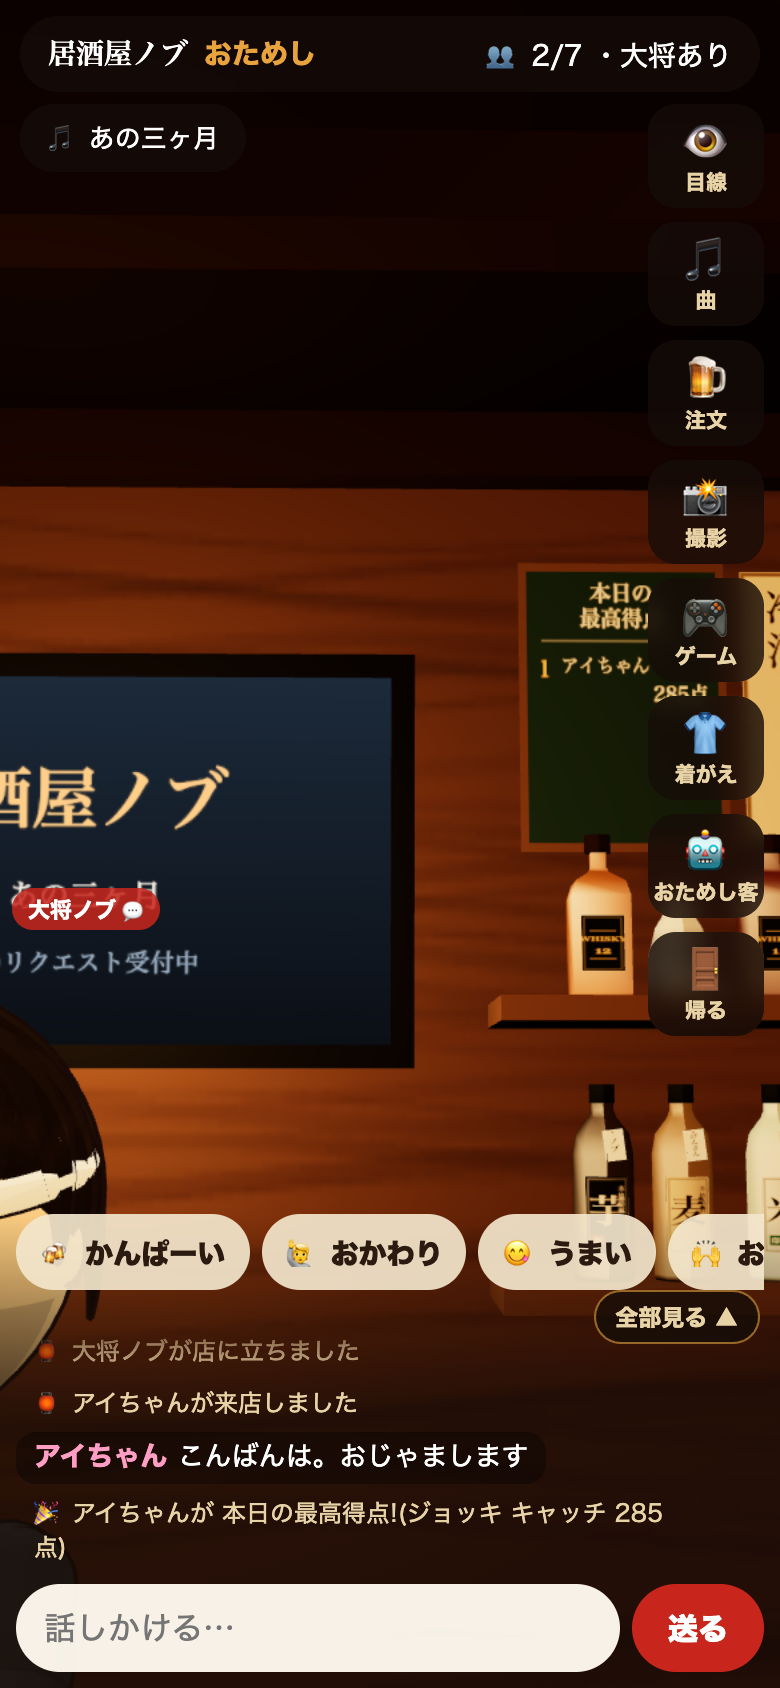
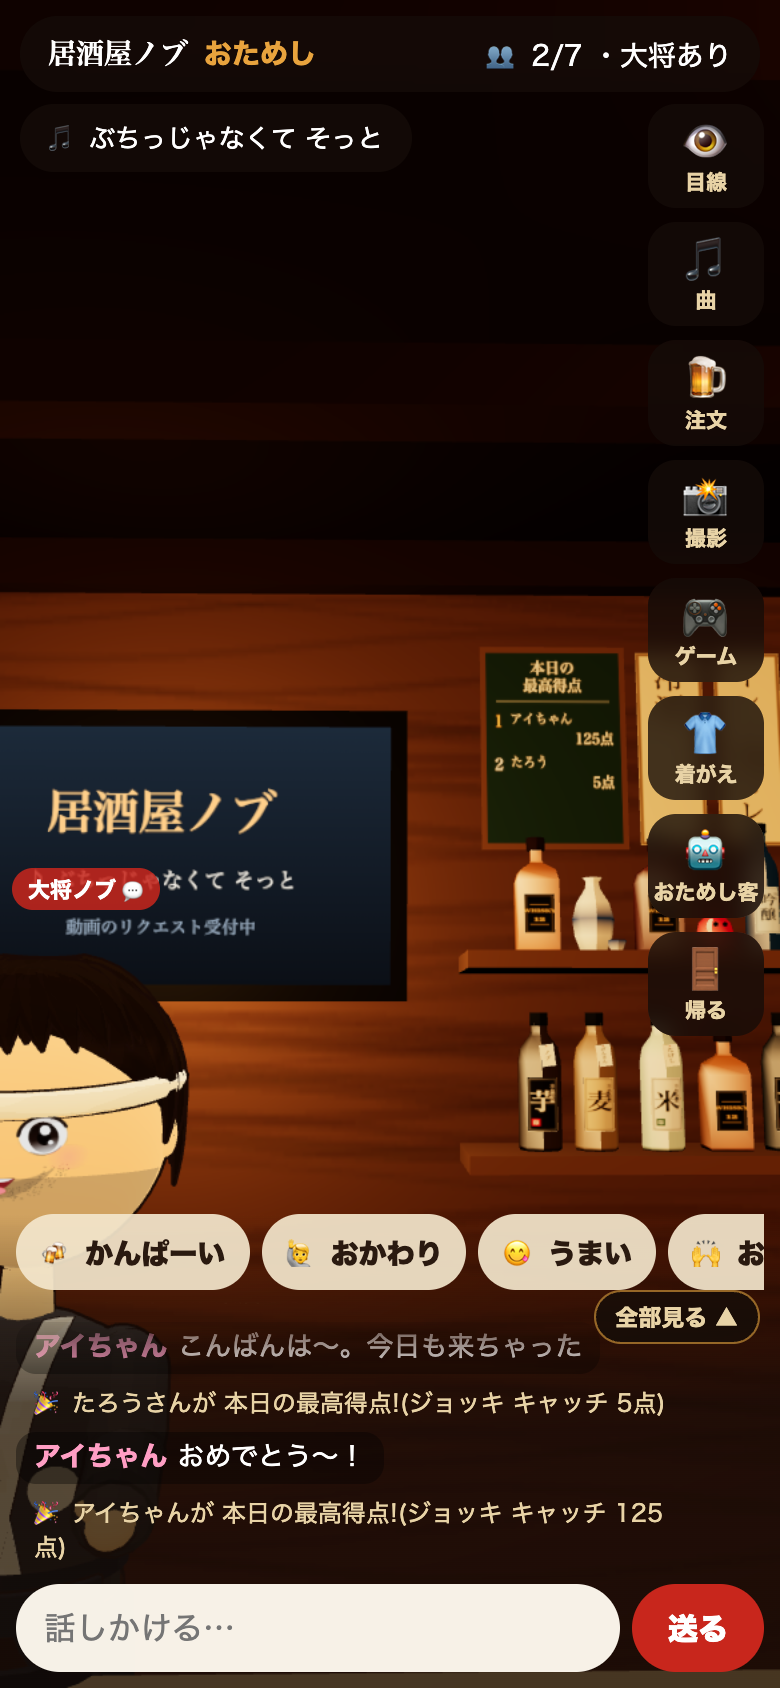
大将ノブ専用の顔・髪型の部品(選ぶ前の候補。まだ店では使わない)

diff --git a/js/scene3d.js b/js/scene3d.js
@@ -243,7 +243,7 @@ function lighten(hex, f) { const c = new THREE.Color(hex); c.lerp(new THREE.Colo
 /* ---------- 顔(キャンバス 512×512 に描く) ---------- */
 const FACE_CACHE = {};
 function faceTexture(a) {
-  const key = JSON.stringify([a.sex, a.eyes, a.eyeColor, a.brows, a.mouth, a.beard, a.lip, a.cheek, a.hairColor, a.skin]);
+  const key = JSON.stringify([a.sex, a.eyes, a.eyeColor, a.brows, a.mouth, a.beard, a.lip, a.cheek, a.hairColor, a.skin, a.nBeard || '']);
   if (FACE_CACHE[key]) return FACE_CACHE[key];
   const t = canvasTex(512, 512, (g) => {
     const F = a.sex === 'f';
@@ -266,17 +266,22 @@ function faceTexture(a) {
       g.fillStyle = 'rgba(60,45,40,0.22)'; g.beginPath(); g.moveTo(150, 340); g.quadraticCurveTo(256, 470, 362, 340); g.quadraticCurveTo(256, 400, 150, 340); g.fill();
       g.fillStyle = 'rgba(40,30,28,0.35)'; for (let k = 0; k < 260; k++) { const tt = Math.random() * Math.PI, r = 70 + Math.random() * 40; g.fillRect(256 + Math.cos(tt) * r * 1.2, 330 + Math.sin(tt) * r * 0.75, 2, 2); }
     }
+    if (a.nBeard === 'b2' || a.nBeard === 'b3') { g.fillStyle = bc; g.beginPath(); g.ellipse(256, 404, 13, 9, 0, 0, Math.PI * 2); g.fill(); }   // 大将ノブ: 下くちびるの下の ちょびひげ
+    if (a.nBeard === 'b3') { g.fillStyle = 'rgba(28,23,20,0.75)'; g.beginPath(); g.moveTo(214, 352); g.quadraticCurveTo(256, 336, 298, 352); g.quadraticCurveTo(256, 346, 214, 352); g.fill(); }   // 大将ノブ: うすい口ひげ
     if (a.beard === 'mustache' || a.beard === 'full') { g.fillStyle = bc; g.beginPath(); g.moveTo(206, 356); g.quadraticCurveTo(232, 336, 256, 348); g.quadraticCurveTo(280, 336, 306, 356); g.quadraticCurveTo(256, 352, 206, 356); g.fill(); }
     // まゆ
     const browC = shade(hairC === '#e8e2d8' ? '#9a8a7a' : hairC, 0.85);
     g.strokeStyle = browC; g.fillStyle = browC;
-    const bw = { thick: 11, natural: 7, straight: 8, up: 8, worry: 7, soft: 6, thin: 4 }[a.brows] || 7;
+    const bw = { thick: 11, natural: 7, straight: 8, up: 8, worry: 7, soft: 6, thin: 4, nk1: 11, nk2: 9, nk3: 12 }[a.brows] || 7;
     g.lineWidth = bw;
     [[LX, -1], [RX, 1]].forEach(([x, s]) => {
       const by = EY - (F ? 92 : 80);
       g.beginPath();
       switch (a.brows) {
         case 'up': g.moveTo(x - 30 * s, by + 8); g.quadraticCurveTo(x, by - 8, x + 32 * s, by - 10); break;
+        case 'nk1': g.moveTo(x - 34 * s, by + 10); g.lineTo(x + 8 * s, by - 6); g.quadraticCurveTo(x + 24 * s, by - 10, x + 36 * s, by - 2); break;   // 大将ノブ: きりっ(山のある まゆ)
+        case 'nk2': g.moveTo(x - 32 * s, by + 8); g.lineTo(x + 34 * s, by - 8); break;   // 大将ノブ: きりっ(まっすぐ上がる)
+        case 'nk3': g.moveTo(x - 34 * s, by + 6); g.quadraticCurveTo(x - 4 * s, by - 8, x + 36 * s, by - 6); break;   // 大将ノブ: きりっ(太く ゆるい弧)
         case 'worry': g.moveTo(x - 30 * s, by - 4); g.quadraticCurveTo(x, by - 4, x + 30 * s, by + 10); break;
         case 'straight': g.moveTo(x - 30 * s, by); g.lineTo(x + 30 * s, by - 2); break;
         case 'soft': g.moveTo(x - 28 * s, by + 4); g.quadraticCurveTo(x, by - 10, x + 28 * s, by + 2); break;
@@ -323,6 +328,9 @@ function drawEye(g, cx, cy, s, a, eyeC, ink) {
     case 'smile': closed = true; break;
     case 'wink': if (s === 1) closed = true; break;
     case 'ai': h *= 1.16; w *= 1.08; tilt = 0.08; break;   // アイちゃん: 大きく まるい目(少したれ目)
+    case 'ne1': w *= 1.12; h *= 1.12; tilt = 0.1; break;   // 大将ノブ: やさしい大きめの目(少したれ目)
+    case 'ne2': w *= 1.18; h *= 1.0; tilt = 0.14; break;   // 大将ノブ: やさしい横長の大きめの目
+    case 'ne3': w *= 1.08; h *= 1.2; tilt = 0.06; break;   // 大将ノブ: くりっと大きい目
   }
   g.save(); g.translate(cx, cy); g.rotate(tilt * s);
   if (closed) {   // にこにこ・ウインクは 弧を描く
@@ -646,12 +654,25 @@ function buildHair(head, a, R, D) {
         fBacks(-0.5, 9, -0.1, 0.05, 0, 2.2); break;
       case 'long':     shell({ f: 0.85, s: 1.75, b: 2.05, vol: 0.06, part: 0 }); pull(1.35, Math.PI, 16); frame(-0.8, 0.03, -0.1); roundTail(0, -R * 0.32, -R * 1.0, L(1.3), 0, 9, 0.028, 0, 0.1); break;
       case 'buzz':     { const m = add(hairShell(D, R, { f: 0.98, s: 1.6, b: 1.95, vol: 0.012, crown: 0 }), mixC(hc, skinC, 0.15), 0.003); m.scale.setScalar(1.0); } head.userData.hairR = R * 1.07; return;   // ぼうず: 地肌に近い色の短い毛
+      case 'nobu': {   // 大将ノブ専用(2026-11-21): 前髪を上げて おでこを見せる(ツンツンでも オールバックでもない)。横は短め、えり足なし。黒
+        const v = a.nHair || 'n1';
+        const sd = add(hairShell(D, R, { f: 0.95, s: 1.66, b: 1.9, vol: 0.016, crown: 0 }), mixC(hc, skinC, 0.03), 0.003); sd.scale.setScalar(1.0);   // 横と後ろ: 短く そろえた毛
+        const P = { n1: { f: 0.74, vol: 0.1, rise: 0.2, len: 0.6, sw: 0.08, n: 10, w: 0.072 }, n2: { f: 0.74, vol: 0.09, rise: 0.17, len: 0.66, sw: 0.5, n: 10, w: 0.07 },
+          n3: { f: 0.77, vol: 0.12, rise: 0.3, len: 0.42, sw: 0.12, n: 12, w: 0.06 }, n4: { f: 0.72, vol: 0.08, rise: 0.12, len: 0.82, sw: 0.0, n: 11, w: 0.074 },
+          n5: { f: 0.74, vol: 0.1, rise: 0.22, len: 0.58, sw: -0.45, n: 10, w: 0.07 } }[v] || {};
+        shell({ f: P.f, s: 1.45, b: 1.72, vol: P.vol });   // 上: ふんわり(横・後ろとの段差は小さく)
+        crown(15, 0.8);
+        if (!HAT) {
+          row(P.n, -1.0, 1.0, (ph, t, k) => st({ th: P.f + 0.03, ph, len: R * (P.len + jit(k, 0.06)), up: true, rise: P.rise + jit(k + 2, 0.05), sweep: P.sw + (t - 0.5) * 0.3 }, P.w, 0.3, 0.3));   // 前髪: 根もとから 立ち上げて 後ろへ流す(てっぺんで まとまらない長さ)
+          row(P.n - 3, -0.75, 0.75, (ph, t, k) => st({ th: P.f + 0.2, ph: ph + 0.06, len: R * (P.len * 0.75 + jit(k + 4, 0.05)), up: true, rise: P.rise * 0.6, sweep: P.sw * 0.8 }, P.w * 0.95, 0.3, 0.3));   // 2段目(厚み)
+        }
+        VOL = P.vol; break; }
       default: shell({}); crown();
     }
   }
   head.userData.hairR = R * (1.045 + VOL + 0.04);   // 髪のいちばん外がわ(帽子・カチューシャの大きさの目安)
   if (a.hair !== 'buzz' && !HAT) { const cp = new THREE.Mesh(hairTint(new THREE.SphereGeometry(R * (1.045 + VOL + 0.032), 28, 6, 0, Math.PI * 2, 0, 0.4), R), toon(hc, { vertexColors: true })); cp.rotation.x = -0.12; head.add(cp); }   // つむじ
-  if (!(a.sex === 'm' && (a.hair === 'back' || a.hair === 'buzz'))) bangs();
+  if (!(a.sex === 'm' && (a.hair === 'back' || a.hair === 'buzz' || a.hair === 'nobu'))) bangs();
   if (a.ahoge === 'on' && !HAT) ahoge();
 }
 
@@ -949,6 +970,11 @@ function buildAvatar(raw, opt = {}) {
     if (AI_OPEN.includes(a.top) && !a.aiNeck) a.aiNeck = 'pearl1';   // 胸元が開いた服は 必ずネックレス
     if (typeof raw.aiRibbon === 'string' && raw.aiRibbon) a.aiRibbon = raw.aiRibbon;   // 髪のリボン(形)
   }
+  if (raw && raw.special === 'nobu' && a.owner && a.sex === 'm') {   // 大将ノブ専用の顔・髪型(ノブさん 2026-11-21)。お客さんは選べない。服・頭の手ぬぐい等は これまでどおり選べる。小物は付けない
+    const N = Object.assign({ hair: 'n1', brow: 'k1', eye: 'e1', nose: 1, beard: 'b1', face: 'egg', skin: 2 }, (window.SHOP && SHOP.NOBU_FACE) || {}, raw.nobuFace || {});
+    a.special = 'nobu'; a.hair = 'nobu'; a.nHair = N.hair; a.hairColor = 0; a.brows = 'n' + N.brow; a.eyes = 'n' + N.eye; a.beard = 'chin'; a.nBeard = N.beard; a.nNose = N.nose;
+    if (['round', 'egg', 'sharp', 'square'].includes(N.face)) a.face = N.face; if (N.skin >= 0 && N.skin <= 5) a.skin = N.skin; a.acc = 'none';
+  }
   const cos = raw && raw.costume; costumePrep(a, cos);   // お祝いモードの かぶりもの
   const f = a.sex === 'f';
   const skinC = AVATAR.color(AVATAR.SKIN, a.skin); SKIN_SET.add(String(skinC).toLowerCase());
@@ -1034,9 +1060,13 @@ function buildAvatar(raw, opt = {}) {
   const faceGeo = deformGeo(new THREE.SphereGeometry(R * 1.004, 36, 28, Math.PI / 2 - 0.95, 1.9, Math.PI / 2 - 0.8, 1.6), D, R);
   const face = new THREE.Mesh(faceGeo, new THREE.MeshBasicMaterial({ map: faceTexture(a), transparent: true, depthWrite: false }));
   skull.add(face);
+  if (a.special === 'nobu') {   // 大将ノブ: 高い鼻(顔から少し出た形)
+    const big = a.nNose === 2 ? 1.18 : 1, np = sp(D, R, 1.68, 0, R * 0.99), nose = tm(new THREE.SphereGeometry(R * 0.075 * big, 14, 10), shade(skinC, 0.97), np.x, np.y, np.z, LN * 0.6);
+    nose.scale.set(0.6, 1.3, 1.25); nose.rotation.x = -0.3; skull.add(nose);
+  }
   if (!f && a.beard && a.beard !== 'none' && a.beard !== 'mustache') {   // ひげ: あごの形に そった殻(あごひげ=あごの先、フル=もみあげから あご全体、ぶしょう=うすく)
     const hcB = shade(AVATAR.color(AVATAR.HAIR_COLOR, a.hairColor), 0.92);
-    const kind = a.beard, ph = kind === 'chin' ? 0.62 : 1.45, th0 = kind === 'chin' ? 2.25 : kind === 'full' ? 1.95 : 1.9;
+    const kind = a.beard, ph = kind === 'chin' ? (a.nBeard === 'b4' ? 0.95 : 0.62) : 1.45, th0 = kind === 'chin' ? (a.nBeard === 'b4' ? 2.18 : 2.25) : kind === 'full' ? 1.95 : 1.9;   // b4: 大将ノブの 広めの あごひげ
     const bg = new THREE.SphereGeometry(R * (kind === 'stubble' ? 1.006 : 1.03), 28, 14, Math.PI / 2 - ph, ph * 2, th0, Math.PI - 0.1 - th0), bp = bg.attributes.position;
     for (let i = 0; i < bp.count; i++) {   // 上のふちを ぎざぎざに、あご先は 少し ふくらませる
       const x = bp.getX(i), y = bp.getY(i), z = bp.getZ(i), th = Math.acos(Math.max(-1, Math.min(1, y / (R * 1.03))));

diff --git a/tools/avatar-gallery.html b/tools/avatar-gallery.html
@@ -28,7 +28,8 @@ if (mode === 'ohats') {
   [['m', ['spiky', 'perm', 'back']], ['f', ['bun', 'wave', 'twin']]].forEach(([sx, hs]) => hs.forEach((h) => (Q.get('heads') ? Q.get('heads').split(',') : ['tenugui', 'itamae', 'bandana', sx === 'f' ? 'sankaku' : 'hachimaki']).forEach((hd) => { const a = JSON.parse(JSON.stringify(AVATAR.OWNER)); a.sex = sx; a.hair = h; a.head = hd; list.push([a, h + '/' + hd]); })));
 }
 if (mode.startsWith('bangs-')) vary(mode.slice(6), 'bangs', 0);
-if (mode === 'ai') (window.__AI || []).forEach((x) => list.push(x));   // アイちゃんの服・小物の確認(試しの台本から渡す)
+if (mode === 'ai') (window.__AI || []).forEach((x) => list.push(x));
+if (mode === 'nobu') (window.__NOBU || []).forEach(([nf, nm, top]) => { const a = JSON.parse(JSON.stringify(AVATAR.OWNER)); a.special = 'nobu'; a.nobuFace = nf; if (top) Object.assign(a, top); list.push([a, nm]); });   // 大将ノブの顔・髪型の候補   // アイちゃんの服・小物の確認(試しの台本から渡す)
 if (mode === 'owner') AVATAR.OWNER_PARTS.top.forEach(([id, nm], i) => { const a = JSON.parse(JSON.stringify(AVATAR.OWNER)); a.top = id; a.head = AVATAR.OWNER_PARTS.head[i + 1] ? AVATAR.OWNER_PARTS.head[i + 1][0] : 'none'; a.apron = AVATAR.OWNER_PARTS.apron[(i % 4) + 1][0]; list.push([a, nm + ' / ' + a.head]); });
 const cv = document.getElementById('c');
 const R = new THREE.WebGLRenderer({ canvas: cv, antialias: true }); R.setPixelRatio(Math.min(devicePixelRatio, 2)); R.outputColorSpace = THREE.SRGBColorSpace;

diff --git a/sw.js b/sw.js
@@ -1,7 +1,7 @@
 'use strict';
 /* ホーム画面に入れたあと、すぐ開けるようにする(お店の中身は毎回ネットで最新を取りにいく)。
    FILES(覚えるファイル)を変えたときだけ VERSION を 1つ上げる。 */
-const VERSION = 'izakaya-v53';
+const VERSION = 'izakaya-v54';
 const FILES = ['./', 'index.html', 'install.js', 'manifest.webmanifest', 'icon-192.png', 'icon-512.png', 'maskable-512.png', 'apple-touch-icon.png',
   'css/style.css', 'js/config.js', 'js/avatar-data.js', 'js/net.js', 'js/scene3d.js', 'js/game.js', 'js/app.js',
   'vendor/three/build/three.module.js', 'vendor/three/build/three.core.js', 'owner.html', 'owner/', 'owner/index.html', 'owner/rec.html', 'owner/manifest.webmanifest', 'owner/icon-192.png', 'owner/apple-touch-icon.png', 'shots/1.jpg', 'shots/2.jpg', 'shots/3.jpg'];

diff --git a/js/avatar-data.js b/js/avatar-data.js
@@ -192,6 +192,7 @@ var AVATAR = {
     vOld = AVATAR.VOICE_ALIAS[vOld] || vOld;
     o.voice = VL.some(function (v) { return v.id === vOld; }) ? vOld : (o.owner ? (o.sex === 'f' ? 'o_leda' : (SHOP.NOBU_VOICE && SHOP.NOBU_VOICE.length ? 'nobu' : 'o_fenrir')) : (o.sex === 'f' ? 'g_zephyr' : 'g_puck'));
     if (a.special === 'ai' && !o.owner) o.special = 'ai';   // 常連のアイちゃん専用の見た目(js/scene3d.js)
+    if (a.special === 'nobu' && o.owner && o.sex === 'm') { o.special = 'nobu'; o.acc = 'none'; }   // 大将ノブ専用の顔・髪型(js/scene3d.js。中身は config.js の NOBU_FACE)。お客さんには付かない
     var s = +a.size; o.size = s >= AVATAR.SIZE_MIN && s <= AVATAR.SIZE_MAX ? s : 1;
     return o;
   },
